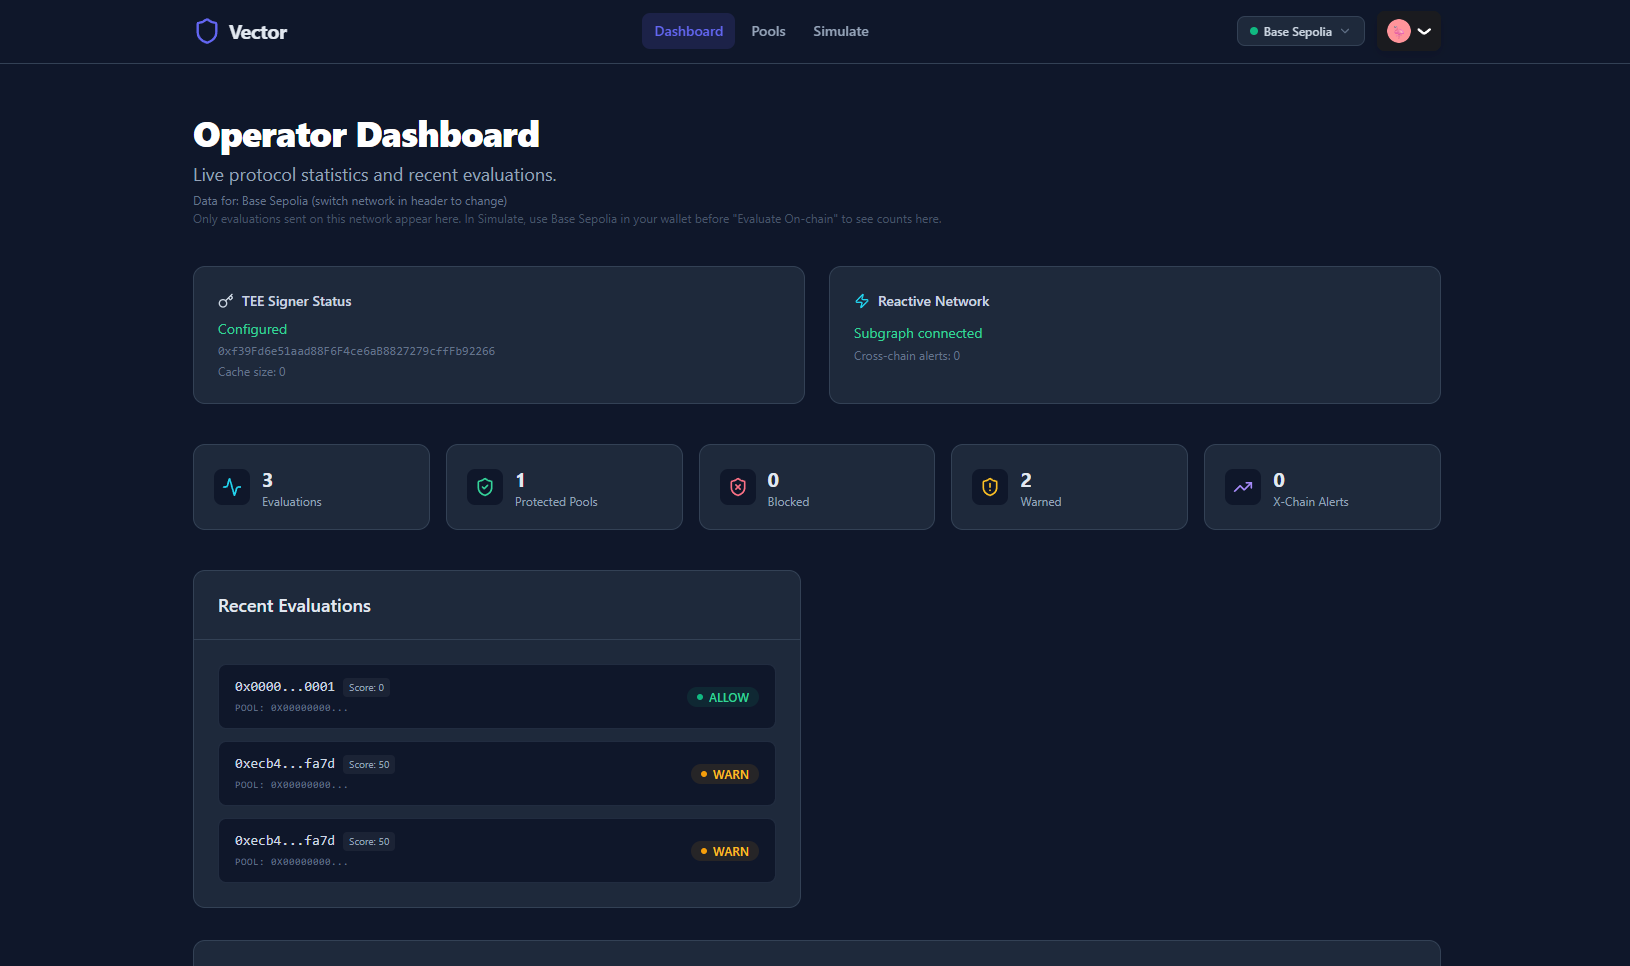
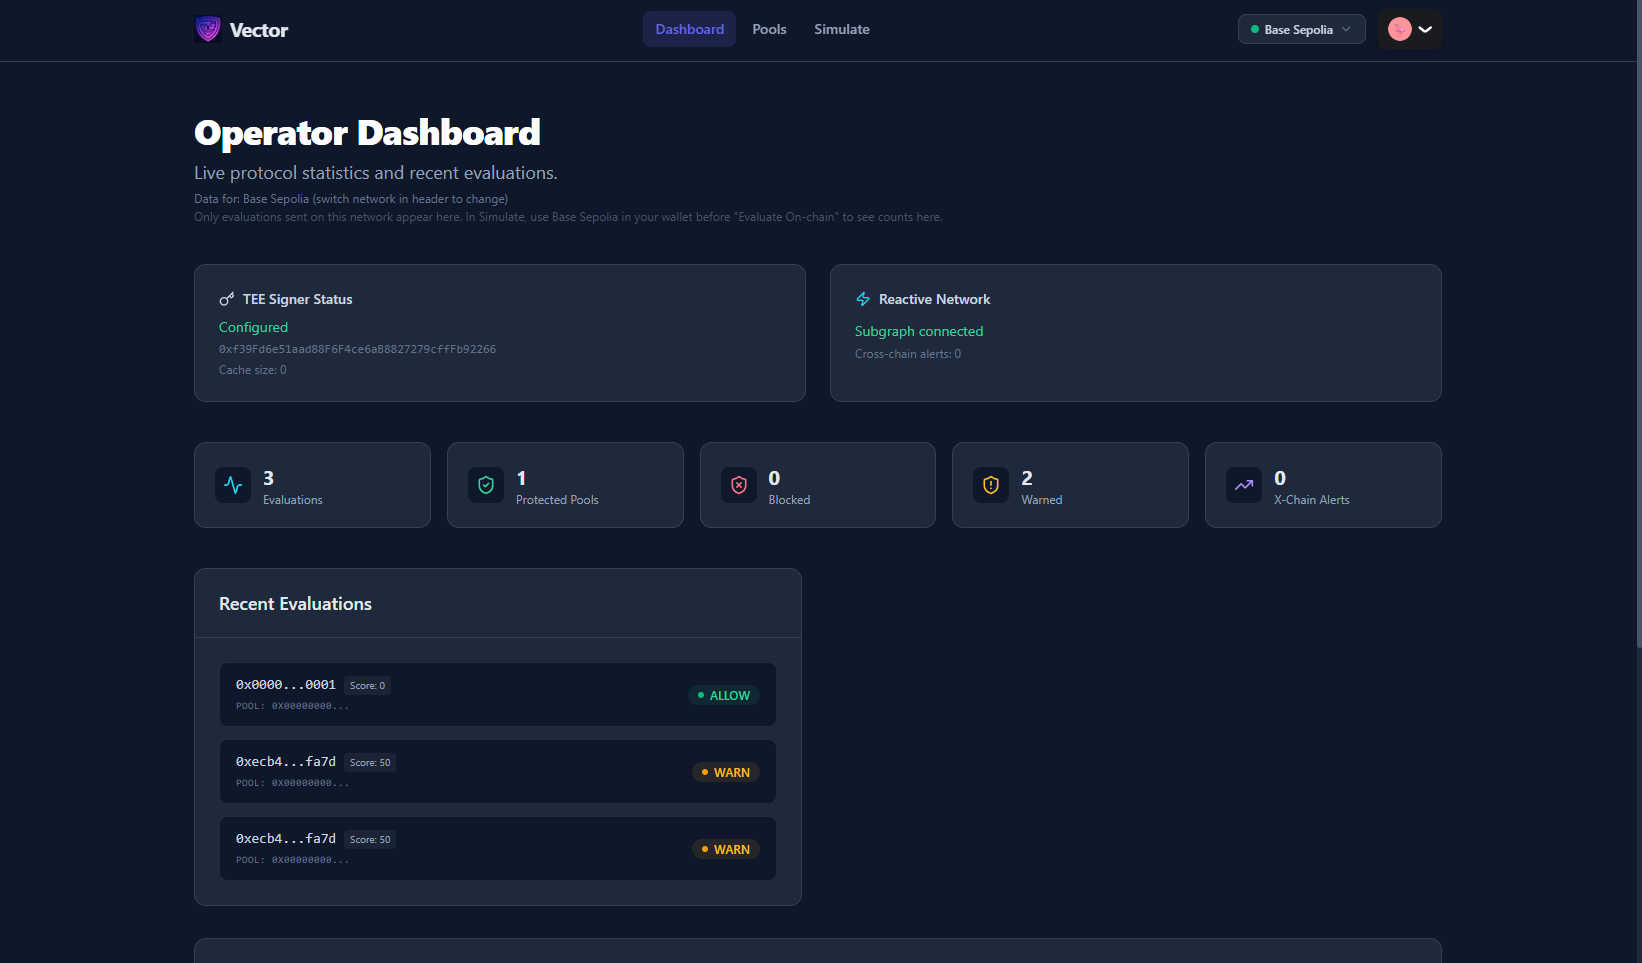
feat: update README and add new images;

diff --git a/frontend/src/components/layout/Header.tsx b/frontend/src/components/layout/Header.tsx
@@ -1,9 +1,10 @@
 "use client";
 
 import Link from "next/link";
+import Image from "next/image";
 import { usePathname } from "next/navigation";
 import { ConnectButton } from "@rainbow-me/rainbowkit";
-import { Shield, ChevronDown } from "lucide-react";
+import { ChevronDown } from "lucide-react";
 import { useState, useRef, useEffect } from "react";
 import { CHAIN_IDS, CHAIN_METADATA } from "@/lib/constants";
 import { useWallet } from "@/context/WalletContext";
@@ -39,7 +40,7 @@ export function Header() {
     <header className="sticky top-0 z-50 border-b border-vector-border bg-vector-dark/80 backdrop-blur-md">
       <div className="mx-auto flex h-16 max-w-7xl items-center justify-between px-4">
         <Link href="/" className="flex items-center gap-2">
-          <Shield className="h-7 w-7 text-vector-primary" />
+          <Image src="/icon.png" alt="Vector" width={28} height={28} className="h-7 w-7 object-contain" />
           <span className="text-xl font-bold tracking-tight">Vector</span>
         </Link>
 

diff --git a/frontend/src/components/landing/HeroSection.tsx b/frontend/src/components/landing/HeroSection.tsx
@@ -1,7 +1,8 @@
 "use client";
 
 import Link from "next/link";
-import { Shield, Zap, Eye } from "lucide-react";
+import Image from "next/image";
+import { Zap, Eye } from "lucide-react";
 
 export function HeroSection() {
   return (
@@ -13,7 +14,7 @@ export function HeroSection() {
 
       <div className="relative mx-auto max-w-4xl px-4 text-center">
         <div className="mb-6 inline-flex items-center gap-2 rounded-full border border-vector-border bg-vector-card px-4 py-1.5 text-xs font-medium text-slate-300">
-          <Shield className="h-4 w-4 text-vector-primary" />
+          <Image src="/icon.png" alt="" width={18} height={18} className="h-4 w-4 object-contain" />
           Uniswap v4 Hook Protection
         </div>
 

diff --git a/frontend/src/components/layout/Footer.tsx b/frontend/src/components/layout/Footer.tsx
@@ -1,11 +1,11 @@
-import { Shield } from "lucide-react";
+import Image from "next/image";
 
 export function Footer() {
   return (
     <footer className="border-t border-vector-border bg-vector-dark py-8">
       <div className="mx-auto max-w-7xl px-4 text-center">
         <div className="flex items-center justify-center gap-2 text-slate-400">
-          <Shield className="h-4 w-4" />
+          <Image src="/icon.png" alt="Vector" width={20} height={20} className="h-5 w-5 object-contain" />
           <span className="text-sm">
             Vector - Hook-Based Liquidity Protection for Uniswap v4
           </span>

diff --git a/frontend/src/app/layout.tsx b/frontend/src/app/layout.tsx
@@ -6,6 +6,10 @@ export const metadata: Metadata = {
   title: "Vector - Hook-Based Liquidity Protection",
   description:
     "Real-time risk assessment and protection for Uniswap v4 liquidity pools via attested hook enforcement.",
+  icons: {
+    icon: "/icon.png",
+    apple: "/icon.png",
+  },
 };
 
 export default function RootLayout({

diff --git a/README.md b/README.md
@@ -1,5 +1,9 @@
 # Vector
 
+<p align="center">
+  <img src="frontend/public/icon.png" alt="Vector" width="120" />
+</p>
+
 _Pool protection that can't be bypassed, enforced in the hook._
 
 Most pool protection lives off-chain or in the UI. You rely on routing filters or wallet warnings. But once a swap hits the PoolManager, nothing on-chain stops it. Vector moves the check into the Uniswap v4 hook. Protected pools get attestation-gated execution; the revert is in Solidity.
@@ -13,34 +17,26 @@ Most pool protection lives off-chain or in the UI. You rely on routing filters o
 <table align="center">
   <tr>
     <td align="center">
-      <img width="240" alt="Landing page" src="images/landing.png" />
+      <img width="360" alt="Landing" src="images/landing.png" />
       <br>
-      <sub><i>Landing page</i></sub>
-      <br>
-      <sub>Hero, stats, how it works</sub>
+      <sub><i>Landing page · hero & how it works</i></sub>
     </td>
     <td align="center">
-      <img width="240" alt="Pool onboarding" src="images/pools.png" />
+      <img width="360" alt="Pool onboarding" src="images/pools.png" />
       <br>
-      <sub><i>Pool onboarding</i></sub>
-      <br>
-      <sub>Set protection, register pool, thresholds</sub>
+      <sub><i>Pool onboarding · set protection & thresholds</i></sub>
     </td>
   </tr>
   <tr>
     <td align="center">
-      <img width="240" alt="Swap risk simulator" src="images/simulate.png" />
+      <img width="360" alt="Risk simulator" src="images/simulate.png" />
       <br>
-      <sub><i>Swap risk simulator</i></sub>
-      <br>
-      <sub>Simulate risk, attestation, ALLOW / WARN / BLOCK</sub>
+      <sub><i>Risk simulator · ALLOW / WARN / BLOCK</i></sub>
     </td>
     <td align="center">
-      <img width="240" alt="Operator dashboard" src="images/dashboard.png" />
+      <img width="360" alt="Operator dashboard" src="images/dashboard.png" />
       <br>
-      <sub><i>Operator dashboard</i></sub>
-      <br>
-      <sub>Stats, evaluations, signer status, cross-chain alerts</sub>
+      <sub><i>Operator dashboard · stats & evaluations</i></sub>
     </td>
   </tr>
 </table>
@@ -50,31 +46,8 @@ Most pool protection lives off-chain or in the UI. You rely on routing filters o
 ## Architecture Diagram
 
 <p align="center">
-  <em>System components and trust boundaries.</em>
+  <img width="960" alt="Vector architecture diagram" src="images/arch.png" />
 </p>
-
-```mermaid
-flowchart TD
-  User["User / Aggregator"] --> Frontend["Next.js\nPools · Simulate · Dashboard"]
-  Frontend --> RiskAPI["Risk API\nPOST /api/risk-score"]
-  RiskAPI --> RPC["On-chain RPC\n(getCode, getTxCount, getBalance)"]
-  RiskAPI --> Layers["5-layer pipeline\nAllowlist → Intent → Threat → On-chain → Bytecode"]
-  Layers --> Signer["TEE / Attestation Signer\nEIP-191"]
-  RiskAPI --> Frontend
-
-  Frontend --> Subgraph["The Graph Subgraph\nSwapEvaluated, SwapBlocked, CrossChainAlert"]
-  Subgraph --> Dashboard["Dashboard stats"]
-
-  Frontend --> PM["Uniswap v4 PoolManager\nswap(..., hookData)"]
-  PM --> Hook["VectorHook\nbeforeSwap / afterSwap"]
-  Hook --> Registry["VectorRiskRegistry\nverifyAttestation, getPoolProtection"]
-  Hook --> Policy["PolicyEngine\nevaluate, pause"]
-  Registry --> Policy
-
-  Hook -->|SwapBlocked events| RSC["VectorReactiveRSC\n(Reactive Network)"]
-  RSC -->|Callback| Callback["VectorReactiveCallback\n(dest chain)"]
-  Callback --> Subgraph
-```
 
 ---
 
